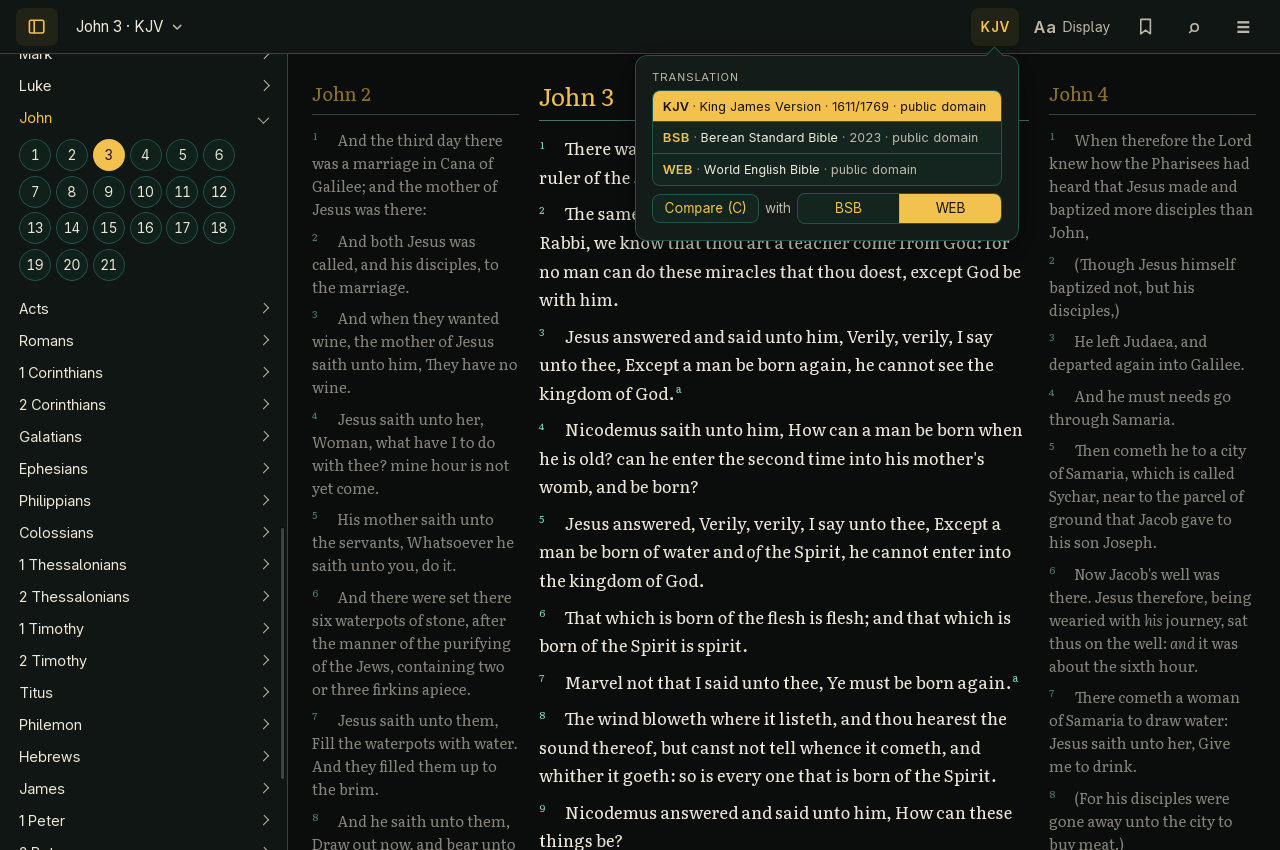
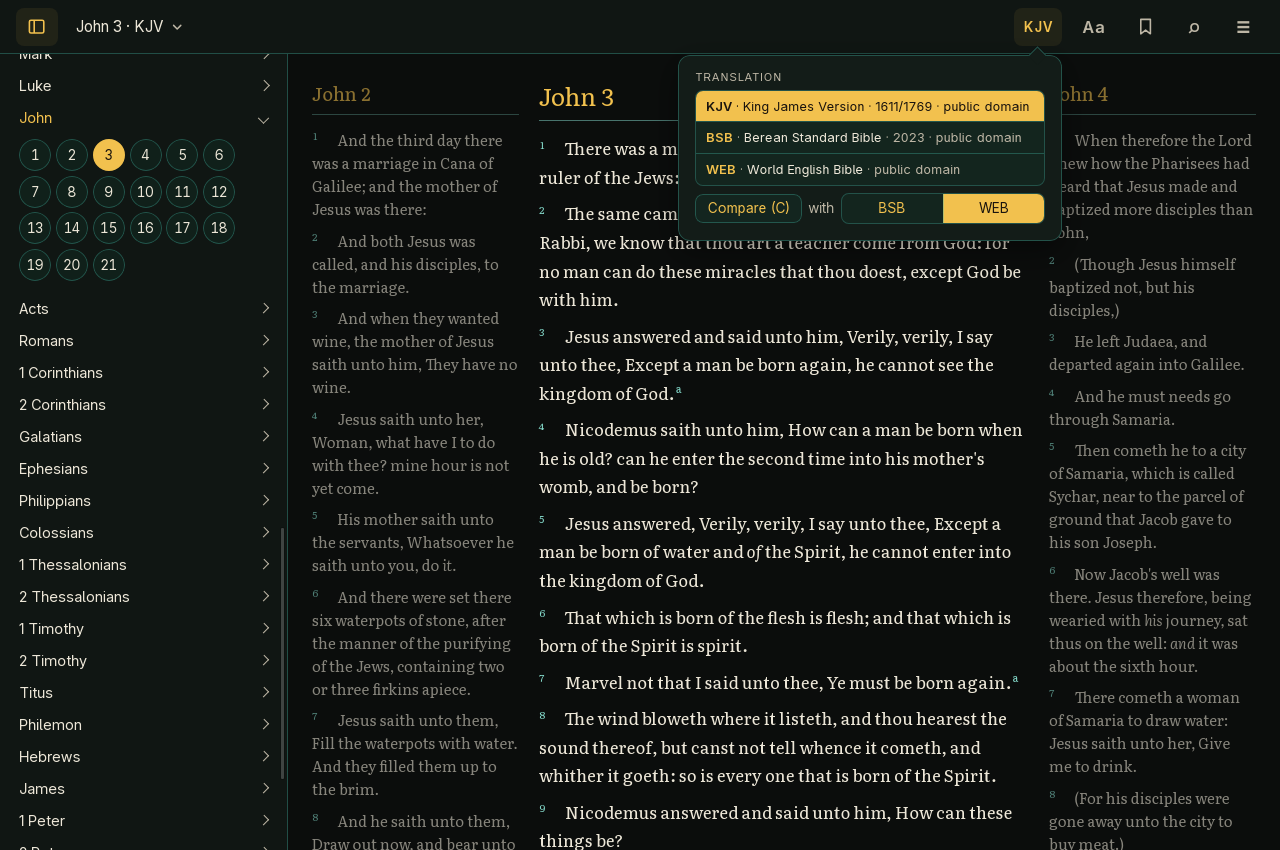
chore(release): v2.17.2
Cargo.toml, Cargo.lock, tauri.conf.json and PKGBUILD pkgver: 2.17.1 ->
2.17.2 (pkgrel stays 1; sha256sums stays SKIP; PKGBUILD remains a draft,
not AUR-published). The website shows version 2.17.2.

README: 2.6.0 through 2.17.1 update themselves to 2.17.2, and 2.5.0 and
older install 2.17.2 by hand once. The site's "2.6 through 2.17 update
themselves to this one" already covers 2.17.1, so it stays.

CHANGELOG: 2.17.2, Fixed: Aa no longer says Display beside it (#111),
and crossing 1200 px keeps the reading place, which jumped on Windows,
on Windows and Linux (#116, #118). No settings, data or export format
changes.

Images: tools/site/capture_screenshots.py --all on a private Xvfb. The
eleven README screenshots and the site's compare and select pairs show
the bar, so they're recaptured: the bar reads "KJV Aa", without Display.
The hero, og-image, search and theme images are left as they were:
captures of v2.17.1's UI and this one in the same environment differ
only in the bar's Aa box, which none of their crops shows. The README's
two alt texts that said "beside Aa Display" now say "beside Aa".

Changed region(s): [[0.5, 0.0612, 0.8438, 0.3059], [0.7812, 0.0306, 0.875, 0.0612]]

diff --git a/site/index.html b/site/index.html
@@ -60,7 +60,7 @@
                         <a class="button button-primary" href="#download-windows">Download for Windows</a>
                         <a class="button button-secondary" href="#download-linux">Download for Linux</a>
                     </div>
-                    <p class="hero-note">Version 2.17.1, for 64-bit Windows and Linux computers. The Windows installer isn’t code-signed yet, so Windows will probably warn you before it runs. <a href="#faq-smartscreen">What to expect</a>.</p>
+                    <p class="hero-note">Version 2.17.2, for 64-bit Windows and Linux computers. The Windows installer isn’t code-signed yet, so Windows will probably warn you before it runs. <a href="#faq-smartscreen">What to expect</a>.</p>
                     <p class="touch-only touch-note">Gospel Getter is a desktop app for <strong>Windows and Linux computers</strong>. There’s no phone, tablet or Mac version. To install it, open this page on your computer.</p>
 
                     <ul class="facts">
@@ -239,7 +239,7 @@
         <section class="section section-alt download" id="download" aria-labelledby="download-title">
             <div class="wrap">
                 <h2 id="download-title">Download Gospel Getter</h2>
-                <p class="release-line"><strong>Version 2.17.1.</strong> Free, for 64-bit Windows and Linux. <a href="https://github.com/tossbaws/gospel-getter/releases/latest">What’s new</a></p>
+                <p class="release-line"><strong>Version 2.17.2.</strong> Free, for 64-bit Windows and Linux. <a href="https://github.com/tossbaws/gospel-getter/releases/latest">What’s new</a></p>
                 <p class="touch-only touch-note">You seem to be on a phone or tablet. Gospel Getter runs on <strong>Windows and Linux computers</strong> only, so open this page on your computer to install it.</p>
 
                 <div class="platforms">

diff --git a/README.md b/README.md
@@ -10,7 +10,7 @@ search the whole Bible, compare any two translations verse by verse, and
 copy, bookmark or write notes on passages. No account and no network
 needed.
 
-![The reading view in the Chi Rho theme (parchment text on near-black, gold headings): John 3 in the KJV in the centre, with John 2 and John 4 faded on either side. The bar's reference button says "John 3 · KJV", its translation button "KJV" beside Aa Display, and the sidebar on the left lists the books, with John's chapters open and 3 marked. Supplied words such as "of" are in italics, and small letters after verses 3 and 7 mark their footnotes](screenshots/reading-neighboring-chapters.png)
+![The reading view in the Chi Rho theme (parchment text on near-black, gold headings): John 3 in the KJV in the centre, with John 2 and John 4 faded on either side. The bar's reference button says "John 3 · KJV", its translation button "KJV" beside Aa, and the sidebar on the left lists the books, with John's chapters open and 3 marked. Supplied words such as "of" are in italics, and small letters after verses 3 and 7 mark their footnotes](screenshots/reading-neighboring-chapters.png)
 
 ## Features
 
@@ -25,7 +25,7 @@ needed.
 
   ![John 3 in the Berean Standard Bible in the Chi Rho theme, with John 2 and John 4 faded on either side. The bar's reference button says "John 3 · BSB" and its translation button "BSB", and small letters after verses 3 and 7 mark the BSB's footnotes](screenshots/bsb.png)
 
-  ![The translation button's popover open in the Chi Rho theme, hanging from the "KJV" button in the top bar, beside Aa Display, over John 3 in the KJV. Under a Translation heading, three rows: KJV · King James Version · 1611/1769 · public domain, chosen; BSB · Berean Standard Bible · 2023 · public domain; and WEB · World English Bible · public domain. Below them, Compare (C) with BSB or WEB, with WEB chosen as the one to compare with](screenshots/translation-button.png)
+  ![The translation button's popover open in the Chi Rho theme, hanging from the "KJV" button in the top bar, beside Aa, over John 3 in the KJV. Under a Translation heading, three rows: KJV · King James Version · 1611/1769 · public domain, chosen; BSB · Berean Standard Bible · 2023 · public domain; and WEB · World English Bible · public domain. Below them, Compare (C) with BSB or WEB, with WEB chosen as the one to compare with](screenshots/translation-button.png)
 - **Read in context.** The chapter you're reading sits in the middle with
   the previous and next chapters faded on either side, scrolling with it.
   ← and → turn chapters across the whole Bible, and each chapter ends with
@@ -300,14 +300,14 @@ without you choosing **Update and restart** or **Update now**.
 latest version, so GitHub sees your IP address, as with any download.
 Nothing about your reading or your data is sent.
 
-**Coming from 2.6.0 through 2.17.0?** Each updates itself to 2.17.1: it
+**Coming from 2.6.0 through 2.17.1?** Each updates itself to 2.17.2: it
 offers the update when it starts (or from **Check now**, in **About
 Gospel Getter** from the ☰ menu in 2.7.0 and later, or in the Updates
 section of Settings in 2.6.0), if it's one of the installs above that
 update themselves.
 
 **Coming from 2.5.0 or older?** Those versions can't update themselves.
-Install 2.17.1 by hand once, from the
+Install 2.17.2 by hand once, from the
 [latest release](https://github.com/tossbaws/gospel-getter/releases/latest),
 over your current version; updates after that can come from inside the app.
 Upgrading keeps your data.

diff --git a/CHANGELOG.md b/CHANGELOG.md
@@ -4,6 +4,19 @@ What changed in each release of Gospel Getter, newest first. The format
 follows [Keep a Changelog](https://keepachangelog.com/en/1.1.0/), and
 versions follow [Semantic Versioning](https://semver.org/).
 
+## [2.17.2] - 2026-10-21
+
+### Fixed
+- **Aa** no longer says **Display** beside it. The bar is back to just
+  **Aa**, beside the translation button. It still opens text size, line
+  spacing, width, layout, theme and reading mode, and its hover text
+  still reads "Text and display". (#111)
+- Making the window wider or narrower than 1200 px, where the books and
+  chapters switch between the sidebar and the popover, could move your
+  reading place on Windows: the page jumped by a few lines, or to another
+  verse. Your place now stays where you saw it, on Windows and on Linux,
+  as it already did with the sidebar's own button. (#116, #118)
+
 ## [2.17.1] - 2026-10-20
 
 ### Fixed
